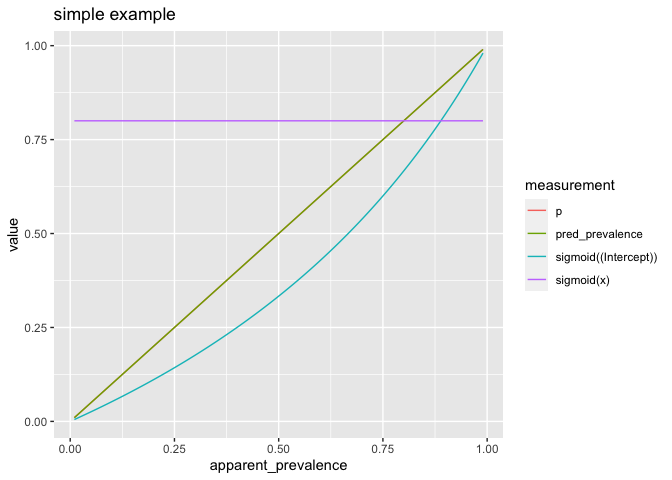
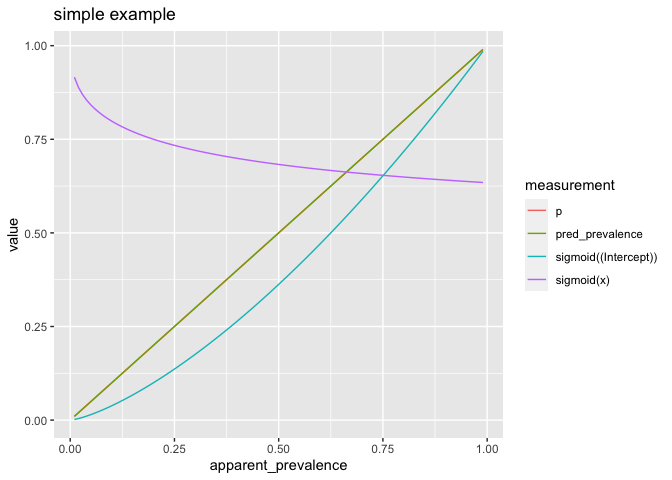
variartions on example

diff --git a/rebalance/simple_example.md b/rebalance/simple_example.md
@@ -104,11 +104,9 @@ build_trajectory_graphs <- function(d, ..., title, vars, outcome_name = "y") {
 d_simple <- wrapr::build_frame(
   "x"  , "y" |
     0  , 0   |
-    0  , 0   |
     0  , 1   |
     1  , 0   |
-    1  , 1   |
-    1  , 1   )
+    2  , 1   )
 
 knitr::kable(d_simple)
 ```
@@ -116,11 +114,9 @@ knitr::kable(d_simple)
 |   x |   y |
 |----:|----:|
 |   0 |   0 |
-|   0 |   0 |
 |   0 |   1 |
 |   1 |   0 |
-|   1 |   1 |
-|   1 |   1 |
+|   2 |   1 |
 
 ``` r
 build_trajectory_graphs(d_simple, title = "simple example", vars = c("x"))
